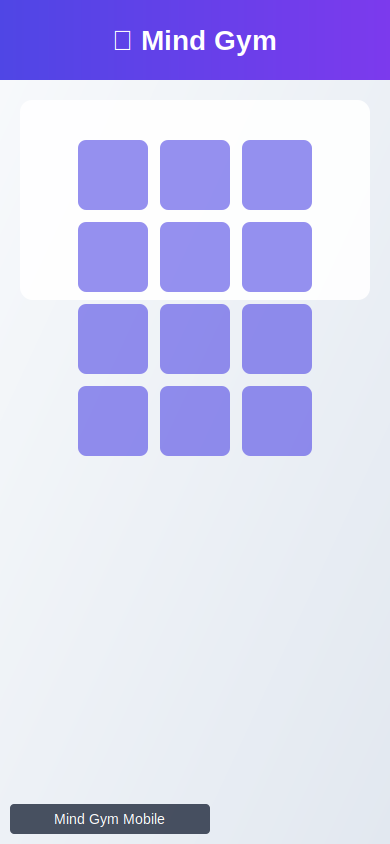
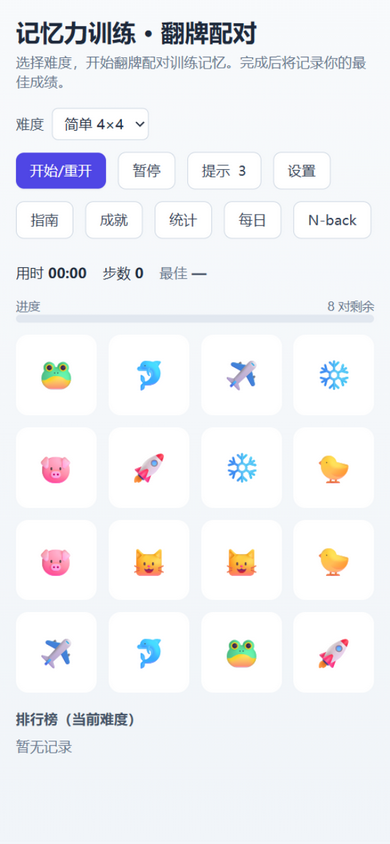
docs: 用真实界面截图与运行效果 GIF 替换占位图
原 screenshot-*.png 由手绘占位 SVG 经 sharp 光栅化而来，
空白紫卡、emoji 缺字形，与实际界面不符；og-image.png 仍为
旧域名 vibe-knight.github.io 且 emoji 渲染为方框。

- 对真实运行页面浏览器截图替换三张截图，新增 demo.gif（整局演示）
- og-image.png 用浏览器重渲（emoji 正常、域名与 meta 一致）
- generate-icons.cjs 收窄为仅生成 PWA 图标，避免覆盖截图产物

diff --git a/README.md b/README.md
@@ -8,7 +8,15 @@
 
 ## 界面预览
 
-![Mind Gym 游戏界面](./assets/screenshot-1.png)
+![经典配对模式：翻牌配对进行中](./assets/screenshot-1.png)
+
+|                N-back 训练                |              移动端（开局预览）               |
+| :---------------------------------------: | :-------------------------------------------: |
+| ![N-back 训练](./assets/screenshot-2.png) | ![移动端界面](./assets/screenshot-mobile.png) |
+
+**运行效果**（开局预览 → 翻牌配对 → 通关后的回忆测验）：
+
+![运行效果演示：从开局预览到翻牌配对再到通关回忆测验](./assets/demo.gif)
 
 ---
 
